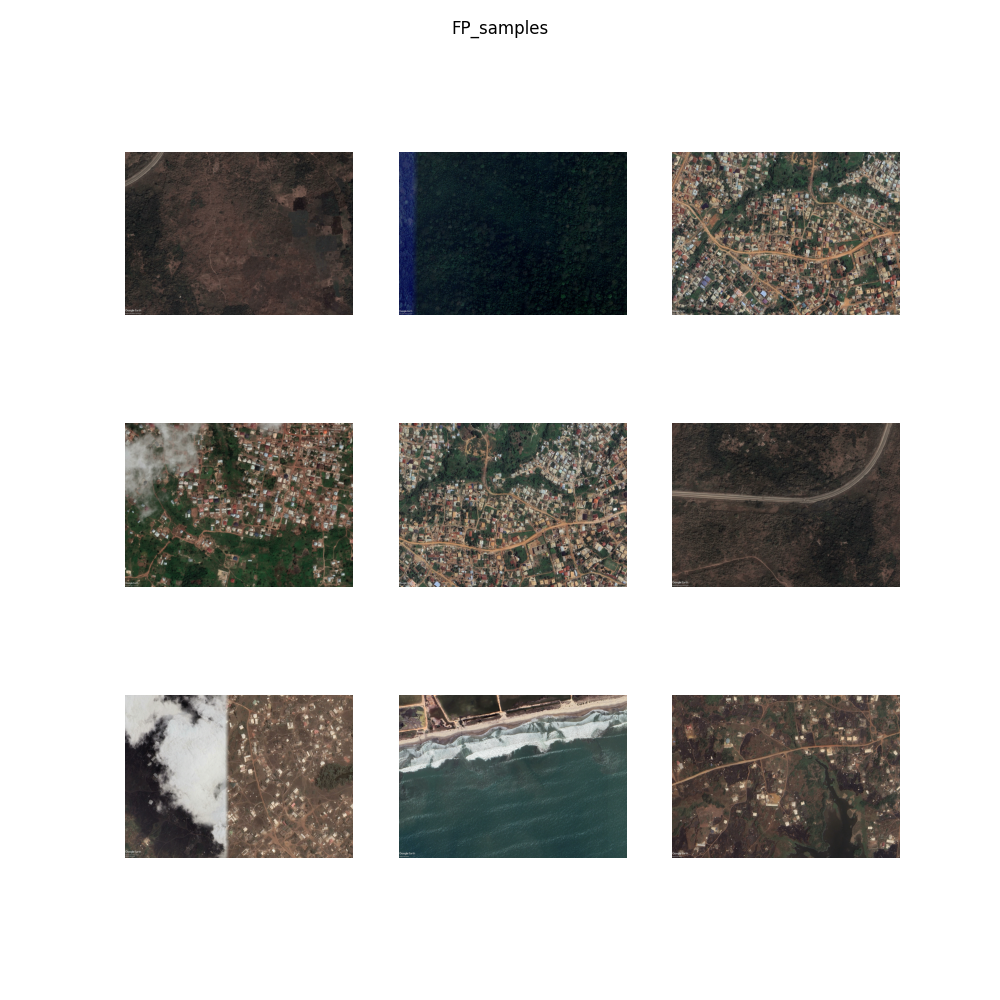
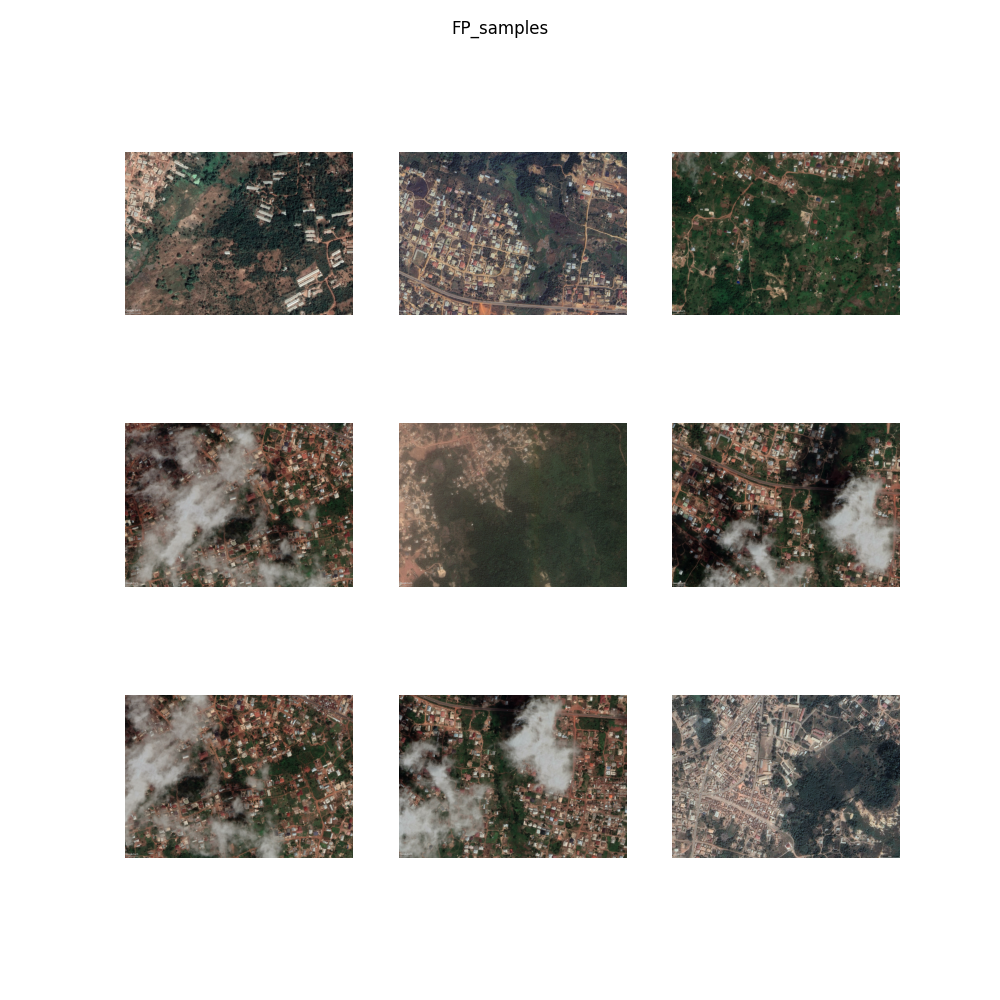
Finish CNN

Changed region(s): [[0.124, 0.682, 0.899, 0.868], [0.124, 0.403, 0.899, 0.589], [0.124, 0.155, 0.899, 0.341]]

diff --git a/classification/model/cnn.py b/classification/model/cnn.py
@@ -18,15 +18,12 @@ class CNN:
         model = models.Sequential()
 
         # Input layer with data augmentation (moved here for illustration, but can be done separately)
-        data_augmentation = models.Sequential([
-            layers.RandomFlip("horizontal"),
-            layers.RandomRotation(0.1),
-            layers.RandomZoom(0.1)
-        ])
-        model.add(data_augmentation)
+        model.add(layers.RandomFlip("horizontal", input_shape=conf.INPUT_SHAPE))
+        model.add(layers.RandomRotation(0.1))
+        model.add(layers.RandomZoom(0.1))
 
         # Layer 1
-        model.add(layers.Conv2D(16, (3, 3), activation='relu', input_shape=conf.INPUT_SHAPE))
+        model.add(layers.Conv2D(16, (3, 3), activation='relu'))
         model.add(layers.BatchNormalization())
         model.add(layers.MaxPooling2D((2, 2)))
 
@@ -44,7 +41,7 @@ class CNN:
         model.add(layers.Flatten())
         model.add(layers.Dropout(0.5))
         model.add(layers.Dense(64, activation='relu'))
-        model.add(layers.BatchNormalization())  # Optional: Add BatchNormalization here
+        model.add(layers.BatchNormalization())
 
         # Output layer
         if self.num_classes == 2:
@@ -104,22 +101,40 @@ class CNN:
         plt.ylabel("Actual")
         plt.savefig("./CNN_confusion_matrix")
 
-    def plot_samples(self, test_data, y_true, y_pred):
+    def plot_samples(self, test_data):
         TP_images = []
         TN_images = []
         FP_images = []
         FN_images = []
 
+        full = 0
         # Classify the images based on the predictions
-        for i in range(len(y_true)):
-            if y_true[i] == 1 and y_pred[i] == 1:
-                TP_images.append(test_data[i][0])  # Append TP images
-            elif y_true[i] == 0 and y_pred[i] == 0:
-                TN_images.append(test_data[i][0])  # Append TN images
-            elif y_true[i] == 0 and y_pred[i] == 1:
-                FP_images.append(test_data[i][0])  # Append FP images
-            elif y_true[i] == 1 and y_pred[i] == 0:
-                FN_images.append(test_data[i][0])  # Append FN images
+        for i, (image, label) in enumerate(test_data):
+            prediction = np.round(self.predict(image).flatten())
+            print("label, prediction: {}, {}".format(label, prediction))
+
+            if label == 1 and prediction == 1:
+                if len(TP_images) < 9:
+                    TP_images.append(image)  # Append TP images
+                    if len(TP_images) >= 9:
+                        full += 1
+            elif label == 0 and prediction == 0:
+                if len(TN_images) < 9:
+                    TN_images.append(image)  # Append TN images
+                    if len(TN_images) >= 9:
+                        full += 1
+            elif label == 0 and prediction == 1:
+                if len(FP_images) < 9:
+                    FP_images.append(image)  # Append FP images
+                    if len(FP_images) >= 9:
+                        full += 1
+            elif label == 1 and prediction == 0:
+                if len(FN_images) < 9:
+                    FN_images.append(image)  # Append FN images
+                    if len(FN_images) >= 9:
+                        full += 1
+            if full >= 4:
+                break
 
         # Plot a random sample from each category
         self.plot_image_sample(TP_images, "TP_samples")
@@ -127,38 +142,47 @@ class CNN:
         self.plot_image_sample(FP_images, "FP_samples")
         self.plot_image_sample(FN_images, "FN_samples")
 
+    def plot_first_9_positive_images(self, test_data):
+        images = []
+        for image, label in test_data:
+            if len(images) >= 9: 
+                break
+            if label == 1:
+                images.append(image)
+        self.plot_image_sample(images, "first_9_pos")
+
+
     def plot_image_sample(self, images, title):
         plt.figure(figsize=(10, 10))
         for i in range(min(9, len(images))):  # Show up to 9 images
             plt.subplot(3, 3, i + 1)
-            plt.imshow(images[i])
+            plt.imshow(images[i][0])
             plt.axis('off')
         plt.suptitle(title)
         plt.savefig(title)
         print("plot samples: {}".format(title))
 
-    def extract_images_and_labels(self, dataset):
-        images = []
-        labels = []
-        for image, label in dataset:
-            images.append(image.numpy())
-            labels.append(label.numpy())
-        return np.array(images), np.array(labels)
+    def extract_labels(self, dataset):
+        labels = [label.numpy() for _, label in dataset]
+        return np.array(labels)
 
     def evaluate_and_plot(self, test_data):
-        images, y_true = self.extract_images_and_labels(test_data)
-        y_pred = self.predict(test_data)
+        self.plot_first_9_positive_images(test_data)
+        y_true, y_pred = [], []
 
-        print("num of classes = {}".format(self.num_classes))
-        if self.num_classes == 2:
-            y_pred = np.round(y_pred).flatten()
+        for image, label in test_data:
+            y_true.append(label.numpy())
+            y_pred.append(self.predict(image).flatten())
+
+        y_true = np.array(y_true)
+        y_pred = np.round(np.array(y_pred))
 
         print("Unique values in y_true:", np.unique(y_true))
         print("Unique values in y_pred:", np.unique(y_pred))
         
         cm = self.evaluate_model(y_true, y_pred)
         self.plot_confusion_matrix(cm)
-        self.plot_samples(images, y_true, y_pred)
+        self.plot_samples(test_data)
 
     def predict(self, input_data):
         predictions = self.model.predict(input_data, batch_size=conf.BATCH_SIZE)

diff --git a/classification/dataset_loader.py b/classification/dataset_loader.py
@@ -49,8 +49,8 @@ def load_dataset():
 
     # balance the dataset
     min_n_sample = min([mine_dataset_n_samples, not_mine_dataset_n_samples])
-    mine_dataset = mine_dataset.take(100)   # TODO: change this back
-    not_mine_dataset = not_mine_dataset.take(100)
+    mine_dataset = mine_dataset.take(min_n_sample)
+    not_mine_dataset = not_mine_dataset.take(min_n_sample)
 
     combined_dataset = mine_dataset.concatenate(not_mine_dataset)
     # Initialize or concatenate with full_dataset
@@ -63,7 +63,7 @@ def load_dataset():
         raise ValueError("No datasets were loaded. Please check the dataset path.")
 
     # 4. shuffle the dataset
-    full_dataset = full_dataset.shuffle(buffer_size=2000)
+    full_dataset = full_dataset.shuffle(buffer_size=1000)
 
     # 5. batch the dataset (add batch size handling)
     batch_size = conf.BATCH_SIZE if hasattr(conf, 'BATCH_SIZE') else 32

diff --git a/classification/config.py b/classification/config.py
@@ -10,6 +10,6 @@ INCLUDE_NOT_SURE = False  # whether include not sure into the classification
 MODEL = "CNN"
 
 BATCH_SIZE = 1
-TRAIN_EPOCH = 1
+TRAIN_EPOCH = 5
 
 INPUT_SHAPE = (1734, 2422, 3)
